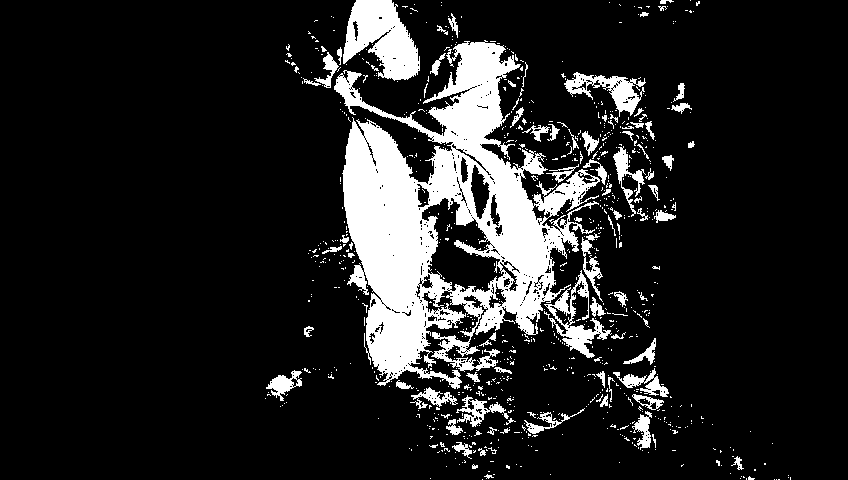
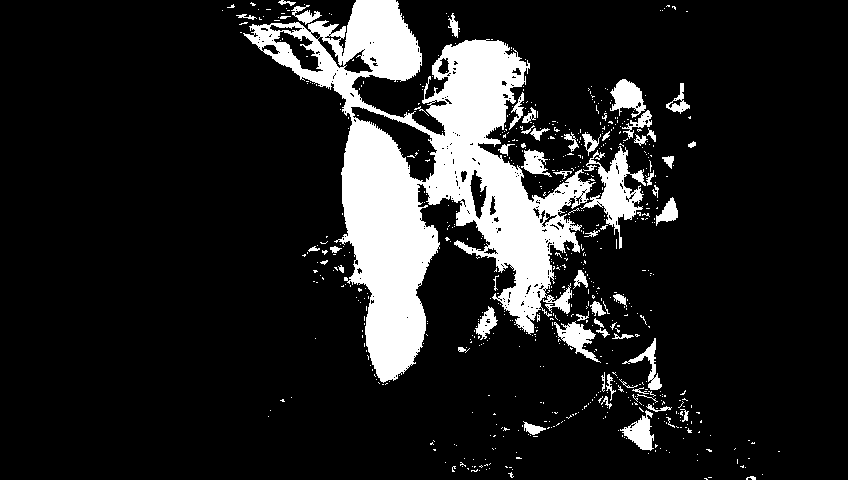
trying to fix white mask

diff --git a/jetson/src/core/imaging.cpp b/jetson/src/core/imaging.cpp
@@ -109,8 +109,10 @@ std::vector<Point2D> findFlowerCenters(cv::Mat& image, Camera & cam){
 	uint8_t brightest = (uint8_t) brightestPixelVal(image);
 	log(std::string("brightest pixel value: ") + std::to_string(brightest));
 
-	cv::Mat whiteMask = whiteMask(image);
+	cv::Mat whiteMask = colorMask(image, {255, 255, 255}, 0, 255);
+	log(std::string("found white mask"));
 	cv::imwrite("./plots/white.png", whiteMask);
+	log(std::string("saved white mask"));
 
 	cv::Mat green = greenMask(image);
 	cv::imwrite("./plots/green.png", green);
